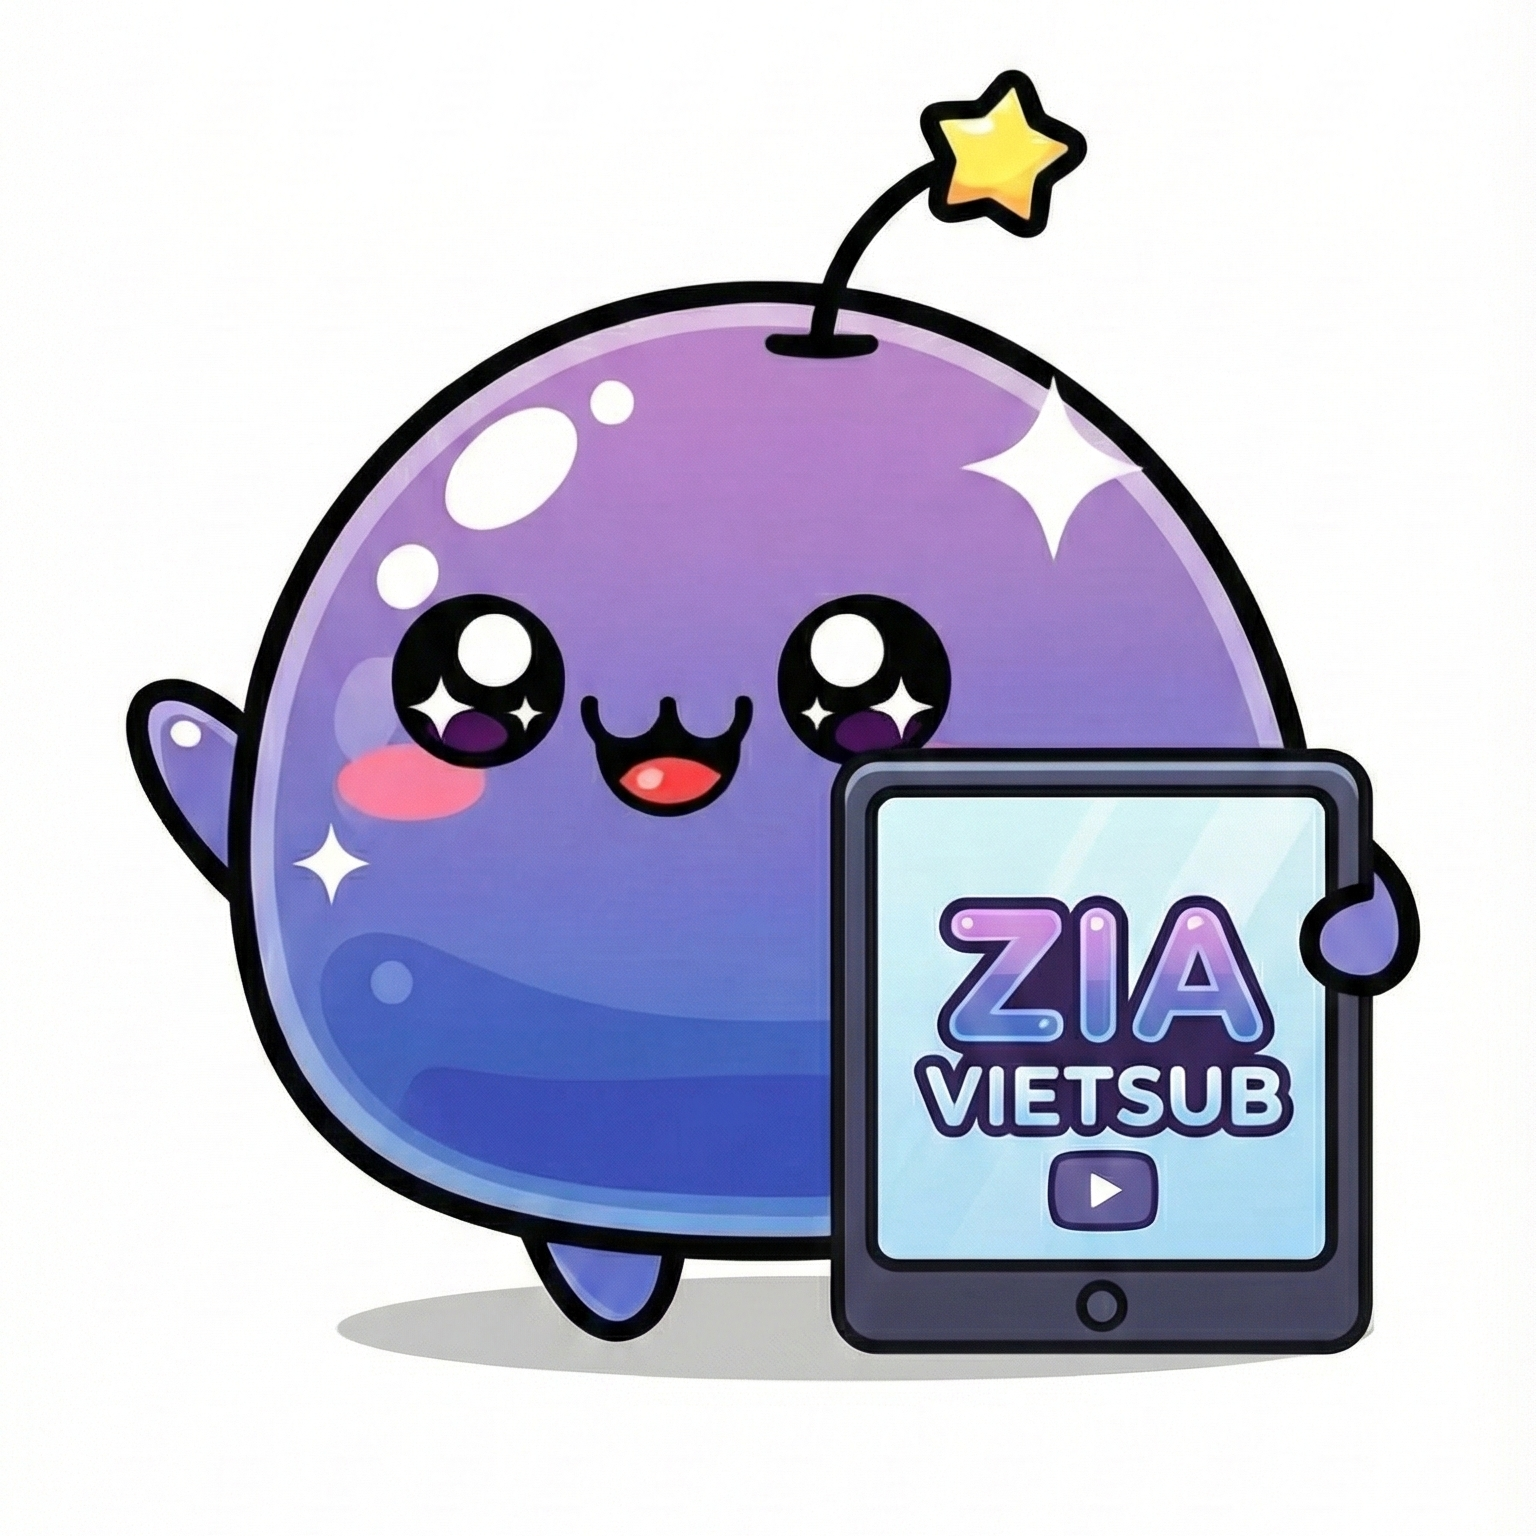
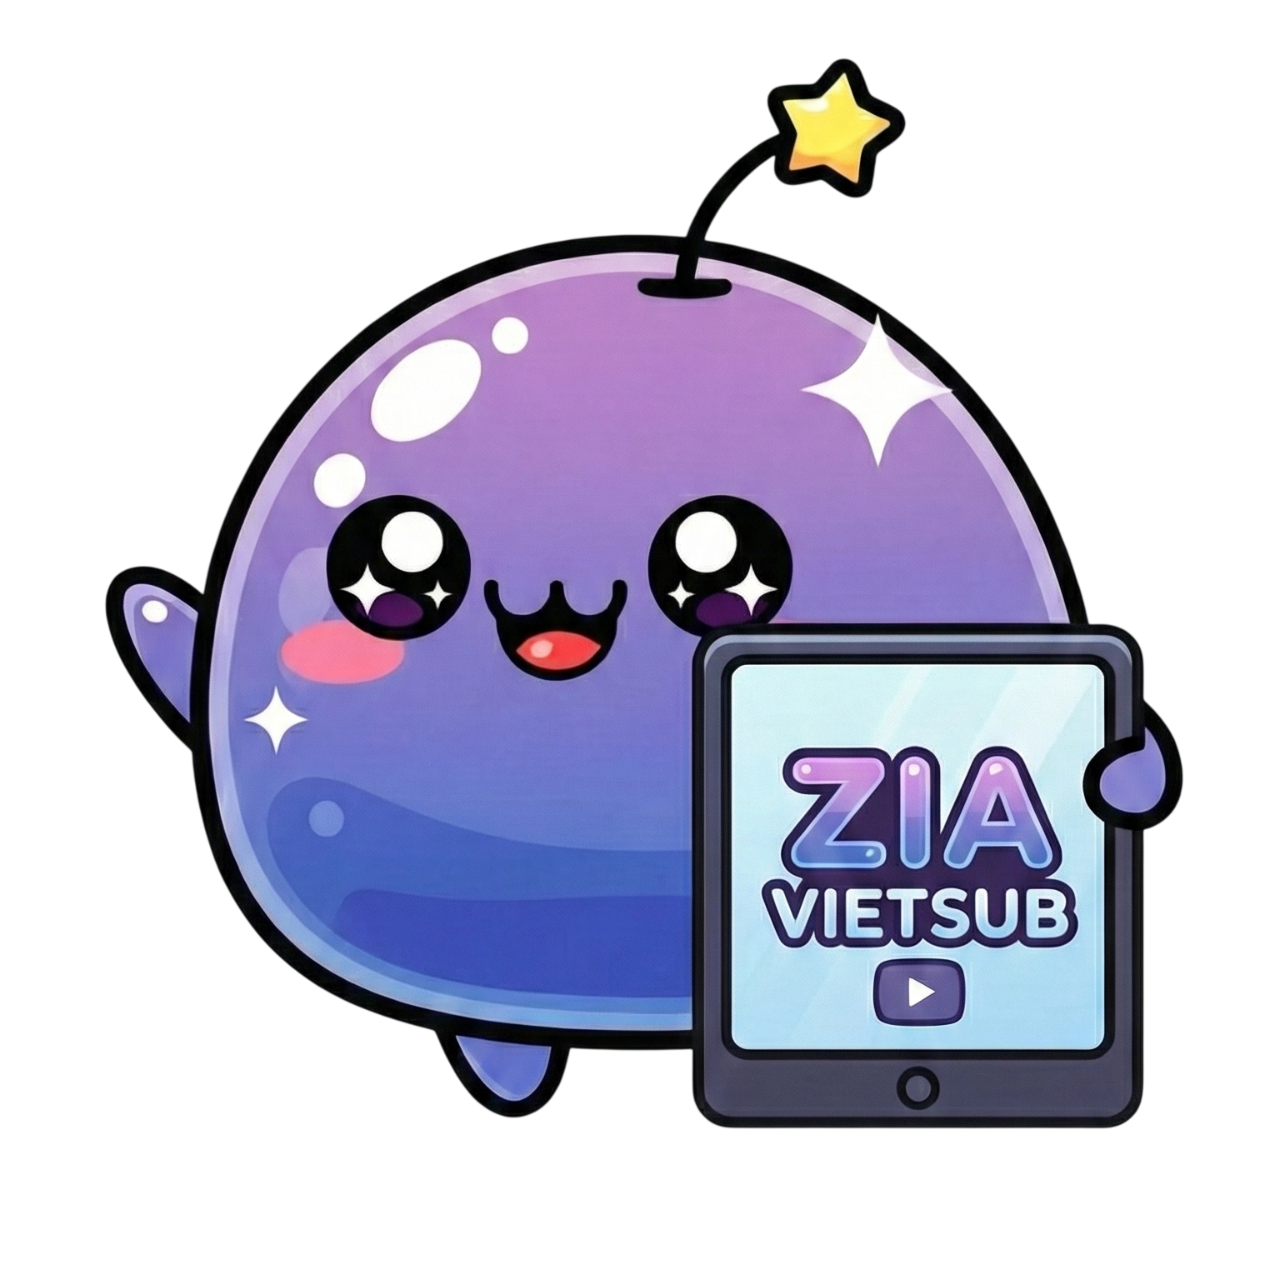
feat(ui,scripts): improve subtitle sync and add translation auto-apply
- Update app icons (adaptive-icon, icon, splash-icon) with new design
- Add conditional alert display in SubtitleInputModal to prevent alerts when modal is not visible
- Improve video element detection in injected scripts to handle quality changes and force resync
- Add translation manager subscription to auto-apply completed translations for current video
- Implement lastSentSubtitle tracking to force resync when video quality changes
- Refactor loadSavedSRT into reusable function with proper cleanup
- Enhance subtitle synchronization to handle WebView resets during quality changes
- Add translationManager import to HomeScreen for translation state management

diff --git a/src/screens/HomeScreen.tsx b/src/screens/HomeScreen.tsx
@@ -35,6 +35,7 @@ import {
 } from "@utils/storage";
 import { keyManager } from "@services/keyManager";
 import { queueManager, QueueItem } from "@services/queueManager";
+import { translationManager } from "@services/translationManager";
 import YouTubePlayer from "@components/YouTubePlayer";
 import SubtitleInputModal from "@components/SubtitleInputModal";
 import SettingsModal from "@components/SettingsModal";
@@ -77,6 +78,7 @@ const HomeScreen = () => {
 
   const webViewRef = useRef<WebView>(null);
   const currentUrlRef = useRef<string>("");
+  const lastSentSubtitleRef = useRef<string>("");
   const insets = useSafeAreaInsets();
 
   // Extract video ID from URL
@@ -173,31 +175,69 @@ const HomeScreen = () => {
     }
   }, [isVideoPlaying, subtitleSettings]);
 
-  useEffect(() => {
-    const loadSavedSRT = async () => {
+  // Load saved SRT for current video
+  const loadSavedSRT = async (url: string) => {
+    if (!url) {
       setSrtContent("");
       setSubtitles([]);
       setCurrentSubtitle("");
-
       if (webViewRef.current) {
         webViewRef.current.postMessage(
           JSON.stringify({ type: "setSubtitle", payload: "" })
         );
       }
+      return;
+    }
 
-      if (!currentUrl) return;
+    const savedSRT = await getSRT(url);
+    if (savedSRT) {
+      setSrtContent(savedSRT);
+      const { fixedData } = fixSRT(savedSRT);
+      const parsed = parseSRT(fixedData);
+      setSubtitles(parsed);
+    } else {
+      setSrtContent("");
+      setSubtitles([]);
+      setCurrentSubtitle("");
+      if (webViewRef.current) {
+        webViewRef.current.postMessage(
+          JSON.stringify({ type: "setSubtitle", payload: "" })
+        );
+      }
+    }
+  };
 
-      const savedSRT = await getSRT(currentUrl);
-      if (savedSRT) {
-        setSrtContent(savedSRT);
-        const { fixedData } = fixSRT(savedSRT);
+  useEffect(() => {
+    loadSavedSRT(currentUrl);
+  }, [currentUrl]);
+
+  // Subscribe to translation manager to auto-apply translations when completed
+  useEffect(() => {
+    const unsubscribe = translationManager.subscribe((job) => {
+      // Auto-apply translation when completed for current video
+      // Compare by video ID to handle URL variations
+      const jobVideoId = extractVideoId(job.videoUrl);
+      const currentVideoId = extractVideoId(currentUrlRef.current);
+
+      if (
+        jobVideoId &&
+        currentVideoId &&
+        jobVideoId === currentVideoId &&
+        job.status === "completed" &&
+        job.result
+      ) {
+        setSrtContent(job.result);
+        const { fixedData } = fixSRT(job.result);
         const parsed = parseSRT(fixedData);
         setSubtitles(parsed);
+        // Reset lastSentSubtitle to force resync
+        lastSentSubtitleRef.current = "";
+        // Sync translated videos to WebView
+        syncTranslatedVideosToWebView();
       }
-    };
-
-    loadSavedSRT();
-  }, [currentUrl]);
+    });
+    return () => unsubscribe();
+  }, []);
 
   const handleWebViewMessage = async (event: WebViewMessageEvent) => {
     try {
@@ -305,8 +345,15 @@ const HomeScreen = () => {
     );
     const text = sub ? sub.text : "";
 
-    if (text !== currentSubtitle) {
+    // Always send subtitle if it changed OR if we have subtitles but haven't sent any yet
+    // This handles the case when video quality changes and WebView resets
+    const shouldSend =
+      text !== currentSubtitle ||
+      (subtitles.length > 0 && text && lastSentSubtitleRef.current !== text);
+
+    if (shouldSend) {
       setCurrentSubtitle(text);
+      lastSentSubtitleRef.current = text;
       if (webViewRef.current) {
         webViewRef.current.postMessage(
           JSON.stringify({ type: "setSubtitle", payload: text })

diff --git a/src/components/SubtitleInputModal.tsx b/src/components/SubtitleInputModal.tsx
@@ -124,7 +124,10 @@ const SubtitleInputModal: React.FC<SubtitleInputModalProps> = ({
           // Sync to queue - mark as completed (only if in queue)
           queueManager.markVideoCompleted(job.videoUrl, job.configName);
           translationManager.clearCompletedJob(videoUrl);
-          alert("Thành công", "Đã dịch xong! Phụ đề đã được áp dụng.");
+          // Only show alert if modal is visible (user is watching the translation)
+          if (visible) {
+            alert("Thành công", "Đã dịch xong! Phụ đề đã được áp dụng.");
+          }
         }
 
         if (job.status === "error") {

diff --git a/src/constants/scripts.ts b/src/constants/scripts.ts
@@ -61,8 +61,13 @@ export const INJECTED_JAVASCRIPT = `
     }
 
     function getVideo() {
-      if (cachedVideo && document.contains(cachedVideo)) return cachedVideo;
-      cachedVideo = document.querySelector('video');
+      const currentVideo = document.querySelector('video');
+      // If video element changed (quality change, etc.), reset lastTime to force resync
+      if (currentVideo && cachedVideo !== currentVideo) {
+        cachedVideo = currentVideo;
+        lastTime = -1; // Force resync subtitle
+        lastDurationSent = 0; // Force resend duration
+      }
       return cachedVideo;
     }
 
